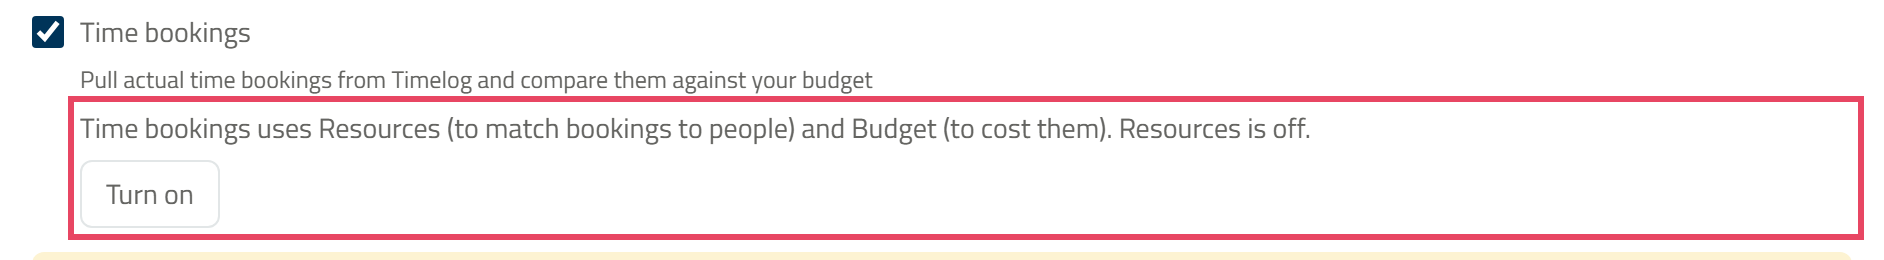
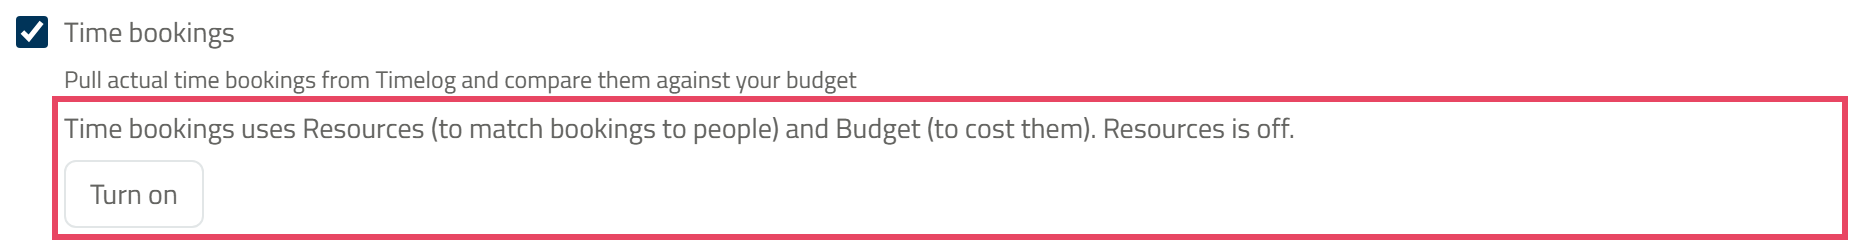
test: unit-test the guide shots' crop, and fix the last two cut pictures (§713)
The crop arithmetic and its throw on a region that runs off screen move
to scripts/guide-crop.mjs, where vitest covers them; the spec measures
the boxes and calls it.

05-functions crops with 8 px of padding, enough for the callout outline
without a sliver of the note below. 06-roles is taken 2400 px wide, the
width at which the rate card shows all its columns (per hour, per day,
entered in) instead of clipping them at the panel's edge.

Changed region(s): [[0.0, 0.2582, 1.0, 1.0], [0.0, 0.0574, 0.1539, 0.2008]]

diff --git a/e2e/guide-shots.spec.ts b/e2e/guide-shots.spec.ts
@@ -6,6 +6,7 @@ import { DEMO_BANNER_DONE_KEY } from "../src/app/demo-banner-state";
 import { IDB_DB_NAME, IDB_ENTITY_STORES } from "../src/app/idb-layout";
 import { splashMessages, splashScript } from "../desktop/src/lib/splash-status";
 import { clearCallouts, markCallout } from "./guide-callouts";
+import { cropClip } from "../scripts/guide-crop.mjs";
 
 // The install guide's screenshots (docs/assets/guide/) and the README gallery
 // (docs/assets/*.png), §713. Run with `npm run docs:guide-shots` — the
@@ -37,10 +38,11 @@ const CROP_PAD_TOP = 8;
 
 /**
  * Photograph the region from `from`'s top-left to `to`'s bottom-right, padded and clamped to the
- * viewport. A clip of the PAGE rather than `locator.screenshot`: the latter scrolls the element's
- * container itself, and the views here scroll inside their own panes. Only the PADDING may be
- * clamped: a region that itself runs past the viewport throws, rather than shipping a picture
- * cut short. `pad: 0` crops to the region exactly (a panel whose own border frames it).
+ * viewport (the arithmetic, and its throw on a region that runs off screen, is `cropClip` in
+ * scripts/guide-crop.mjs, unit-tested beside it). A clip of the PAGE rather than
+ * `locator.screenshot`: the latter scrolls the element's container itself, and the views here
+ * scroll inside their own panes. `pad` overrides the padding on every side; `pad: 0` crops to
+ * the region exactly (a panel whose own border frames it).
  */
 async function shotSpan(
   from: Locator,
@@ -60,24 +62,20 @@ async function shotSpan(
   if (!a || !b || c.some((r) => r === null)) throw new Error(`shotSpan(${file}): a bound is not rendered`);
   const view = page.viewportSize();
   if (!view) throw new Error("shotSpan: no viewport");
-  const xs = c.length > 0 ? c.filter((r) => r !== null) : [a, b];
-  const region = {
-    left: Math.min(...xs.map((r) => r.x)),
-    top: Math.min(a.y, b.y),
-    right: Math.max(...xs.map((r) => r.x + r.width)),
-    bottom: Math.max(a.y + a.height, b.y + b.height),
-  };
-  // Half a pixel of slack: bounding boxes are fractional.
-  if (region.left < -0.5 || region.top < -0.5 || region.right > view.width + 0.5 || region.bottom > view.height + 0.5) {
-    throw new Error(`shotSpan(${file}): the region runs past the ${view.width}×${view.height} viewport: ${JSON.stringify(region)}`);
+  let clip;
+  try {
+    clip = cropClip({
+      from: a,
+      to: b,
+      across: c.filter((r) => r !== null),
+      view,
+      pad: opts.pad ?? CROP_PAD,
+      padTop: opts.pad ?? CROP_PAD_TOP,
+    });
+  } catch (err) {
+    throw new Error(`shotSpan(${file}): ${(err as Error).message}`);
   }
-  const pad = opts.pad ?? CROP_PAD;
-  const padTop = opts.pad ?? CROP_PAD_TOP;
-  const x = Math.max(0, region.left - pad);
-  const y = Math.max(0, region.top - padTop);
-  const right = Math.min(view.width, region.right + pad);
-  const bottom = Math.min(view.height, region.bottom + pad);
-  await page.screenshot({ path: file, clip: { x, y, width: right - x, height: bottom - y }, animations: "disabled", caret: "hide" });
+  await page.screenshot({ path: file, clip, animations: "disabled", caret: "hide" });
 }
 
 async function shot(locator: Locator, file: string, opts: { pad?: number } = {}): Promise<void> {
@@ -222,13 +220,15 @@ test.describe("guide", () => {
     await expect(notice).toBeVisible();
     await notice.scrollIntoViewIfNeeded();
     await markCallout(notice);
-    await shotSpan(bookings, notice, `${GUIDE_DIR}/05-functions.png`, { across: functions });
+    // Padding 8: the callout outline needs 6, and more shows a sliver of the note below.
+    await shotSpan(bookings, notice, `${GUIDE_DIR}/05-functions.png`, { across: functions, pad: 8 });
     await clearCallouts(page);
   });
 
   test("06 roles and rates, reached from the budget checklist", async ({ page }) => {
-    // Wider than the guide default: at 1280 the rate card clips its External /h column.
-    await page.setViewportSize({ width: 1600, height: 900 });
+    // Wider than the guide default: the rate card grows with the window, and below this width it
+    // clips its day-rate columns at the panel's edge.
+    await page.setViewportSize({ width: 2400, height: 900 });
     await prepare(page);
     await clearEntityStore(page, IDB_ENTITY_STORES.budgets);
     await gotoApp(page, FROZEN_NOW);

diff --git a/docs/desktop-rollout.md b/docs/desktop-rollout.md
@@ -182,8 +182,8 @@ The app walks you through this itself: open **Help** (the **?** at the top) and 
 **Getting started: set up a budget**. The pictures below show where each step happens. The same
 Help panel has a link back to this guide at the bottom, and **Explore the demo project**, which
 opens a fully filled-in sample project to look around in. With Turso storage it opens any time;
-with projects kept on this laptop, only before you create your first one, because it would
-otherwise replace that project.
+otherwise only while no project uses the app's own built-in storage, because it would replace that
+project. A project kept in a file does not count.
 
 ![The Help panel showing Getting started: set up a budget, with the Installation & setup guide link at the bottom](assets/guide/09-help-entry.png)
 
@@ -198,7 +198,7 @@ An empty Budget view shows a checklist; each step ticks itself off as you go:
 
 **Manage roles** opens the rate card, where each role gets its hourly rate:
 
-![The rate card: each discipline and grade with its internal and external hourly rates](assets/guide/06-roles.png)
+![The rate card: each discipline and grade with its internal and external rates per hour and per day](assets/guide/06-roles.png)
 
 Add each person with the email they use in Timelog, so their bookings can be matched to them:
 
